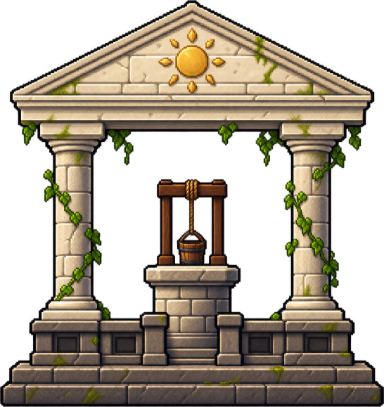
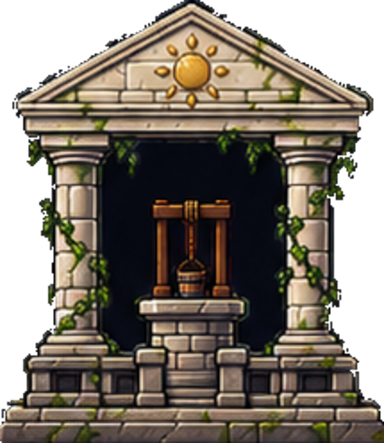
Il Santuario ha cinque disegni, uno per brace, e la lanterna e una lanterna
Avevo integrato il file sbagliato. In `sprite-new/Edifici/Santuario.png`
c'e un tempio con un POZZO e un secchio, e le nicchie vuote; il disegno
vero e `Santuario Set.png`, che ha la lanterna, le quattro braci e uno
stato per ognuna. E la differenza non e estetica: il gioco si chiama
«La Lanterna del Solstizio», e nel santuario ci stava un pozzo.

Adesso sono cinque file — `santuario.png` piu `santuario_1..4` — e li
sceglie il meccanismo delle varianti nato ieri per la casa ampliata.
Con un'aggiunta che serviva: la variante EREDITA dalla base quello che
non ridichiara, se no i quattro punti delle nicchie starebbero scritti
cinque volte e divergerebbero al primo ritocco. Chi ha davvero un
impaginato suo lo dichiara e vince, come fa `casa_1` con le sue cinque
finestre.

E per il Santuario il «livello» non e `e.liv` ma `G.braci`, cioe a che
punto sta l'atto secondo. Quella regola stava scritta in tre posti — due
in render.js e uno in game.js — ed e diventata `G.livelloEdificio`.

Le braci qui sono DISEGNATE, quindi il gioco non dipinge piu la fiamma:
mette solo l'alone, che e quello che un file non puo avere — serve a
bucare il velo del buio e a tingere la pozza di verde, giallo, arancio e
azzurro. I quattro colori restano quelli della facciata in codice, o
accendere una brace cambierebbe tinta a seconda di quale disegno e
arrivato.

TRE COSE MISURATE PER STRADA.

Il foglio ha un fondo blu scuro OPACO, non trasparente. Toglierlo con
[…]

diff --git a/js/render.js b/js/render.js
@@ -1400,12 +1400,12 @@ function stratoErba(m, x0,y0,x1,y1, ox,oy, stag, t, G){
 function ombraEdificio(e, ox, oy, G, stag, sole){
   if(sole.a < 0.03) return;
   const opt = { lit: G.ora>1020 || G.ora<420, season:stag, liv:e.liv||0 };
-  if(e.kind==='santuario') opt.liv = G.braci;
+  if(e.kind==='santuario') opt.liv = G.livelloEdificio(e);
   /* Dallo stesso disegno che si vede, come per gli arredi: la sagoma
      disegnata a mano non è quella in codice — casa tua ha il comignolo
      più a destra e il tetto più basso — e un'ombra presa dall'altra
      sarebbe l'ombra di un'altra casa. */
-  const img = ART.edificio(e.kind, e.liv) || ART.building(e.kind, opt);
+  const img = ART.edificio(e.kind, opt.liv) || ART.building(e.kind, opt);
   const w = e.w*T, scr = w/img.width;
   FX.ombraSprite(sx, img, (e.x*T+ox)+w/2, ((e.y+e.h)*T+oy), sole, w, img.height*scr, 0);
 }
@@ -1535,27 +1535,18 @@ function luceEdificio(E, px, py, w, h, acceso, G){
     alone(px + (f[0]+f[2]/2)*w, py + (f[1]+f[3]/2)*h, Math.max(f[2]*w, f[3]*h)*1.6,
           'rgba(255,146,60', acceso ? 1 : 0.5);
   }
-  /* Le quattro braci e la lanterna del Santuario sono STATO DI GIOCO,
-     non decorazione: dicono a che punto sta l'atto secondo. Nel disegno
-     a mano le quattro nicchie ci sono — sono i quattro incassi scuri
-     nel basamento, due per lato del pozzo — e sono vuote: la brace è
-     luce, e la luce la mette il gioco, come per le finestre. I quattro
-     colori sono gli stessi della facciata in codice, o accendere una
-     brace cambierebbe tinta a seconda di quale dei due disegni è
-     arrivato. */
+  /* Le quattro braci e la lanterna del Santuario sono STATO DI GIOCO:
+     dicono a che punto sta l'atto secondo. Il disegno le ha — c'è un
+     file per ogni brace accesa — quindi qui non si dipinge la fiamma,
+     si aggiunge solo l'ALONE, che è quello che un file non può avere:
+     serve a bucare il velo del buio e a tingere di verde, giallo,
+     arancio e azzurro la pozza di luce. I quattro colori restano quelli
+     della facciata in codice, o accendere una brace cambierebbe tinta a
+     seconda di quale dei due disegni è arrivato. */
   if(E.nicchie){
     const bc = ['rgba(143,212,106', 'rgba(247,199,68', 'rgba(224,138,60', 'rgba(159,216,238'];
-    for(let i=0; i<E.nicchie.length && i<(G.braci||0); i++){
-      const nx = px + E.nicchie[i][0]*w, ny = py + E.nicchie[i][1]*h;
-      /* La brace vera, piena: solo l'alone la faceva una macchia di
-         colore sul fondo scuro della nicchia, e da lontano non si
-         capiva se fosse accesa o se fosse un riflesso. */
-      sx.globalCompositeOperation = 'source-over';
-      sx.fillStyle = bc[i]+',0.9)';
-      sx.beginPath(); sx.ellipse(nx, ny, w*0.022, w*0.016, 0, 0, 6.3); sx.fill();
-      sx.globalCompositeOperation = 'lighter';
-      alone(nx, ny, w*0.085, bc[i], 1.5);
-    }
+    for(let i=0; i<E.nicchie.length && i<(G.braci||0); i++)
+      alone(px + E.nicchie[i][0]*w, py + E.nicchie[i][1]*h, w*0.085, bc[i], 1.2);
   }
   if(E.lanterna && (G.braci||0) > 0){
     const l = E.lanterna, pieno = G.braci >= 4;
@@ -1567,8 +1558,8 @@ function luceEdificio(E, px, py, w, h, acceso, G){
 
 function disegnaEdificio(e, ox, oy, G, stag){
   const opt = { lit: G.ora>1020 || G.ora<420, season:stag, liv:e.liv||0 };
-  if(e.kind==='santuario') opt.liv = G.braci;
-  const aMano = ART.edificio(e.kind, e.liv);
+  if(e.kind==='santuario') opt.liv = G.livelloEdificio(e);
+  const aMano = ART.edificio(e.kind, opt.liv);
   const img = aMano || ART.building(e.kind, opt);
   const w = e.w*T;
   const dw = img.width, dh = img.height;
@@ -1577,7 +1568,7 @@ function disegnaEdificio(e, ox, oy, G, stag){
   const py = ((e.y+e.h)*T + oy - dh*sc)|0;
   sx.drawImage(img, px, py, dw*sc, dh*sc);
 
-  const E = aMano ? ART.datoEdificio(e.kind, e.liv) : null;
+  const E = aMano ? ART.datoEdificio(e.kind, opt.liv) : null;
   if(E) luceEdificio(E, px, py, dw*sc, dh*sc, opt.lit, G);
 
   if((e.kind==='casa'||e.kind==='locanda'||e.kind==='fucina'||e.kind==='capanna') && opt.lit){

diff --git a/js/data.js b/js/data.js
@@ -2042,9 +2042,22 @@ D.EDIFICI = {
                finestre:[[0.482,0.283,0.080,0.089],[0.188,0.323,0.054,0.063],
                          [0.158,0.638,0.083,0.102],[0.621,0.688,0.056,0.073],
                          [0.799,0.690,0.100,0.108]] },
-  santuario: { file:'santuario.png', w:384, h:407,
-               lanterna:[0.499,0.560],
-               nicchie:[[0.169,0.835],[0.319,0.835],[0.664,0.835],[0.824,0.835]] }
+  /* IL SANTUARIO HA CINQUE DISEGNI, uno per brace accesa, e non è una
+     variante come le altre: `e.liv` di un edificio è il suo livello, ma
+     qui il livello è `G.braci`, cioè a che punto sta l'atto secondo.
+     Le braci e la lanterna qui sono DISEGNATE, quindi il gioco non le
+     dipinge più — mette solo la luce, che è quello che il disegno non
+     può avere: il velo del buio si buca da lì.
+     I punti stanno solo sulla voce base: le varianti li ereditano
+     (`ART.datoEdificio`), o gli stessi quattro numeri starebbero
+     scritti cinque volte e divergerebbero al primo ritocco. */
+  santuario:   { file:'santuario.png',   w:384, h:443,
+                 lanterna:[0.500,0.583],
+                 nicchie:[[0.191,0.872],[0.364,0.872],[0.496,0.872],[0.648,0.872]] },
+  santuario_1: { file:'santuario_1.png', w:384, h:443 },
+  santuario_2: { file:'santuario_2.png', w:384, h:443 },
+  santuario_3: { file:'santuario_3.png', w:384, h:443 },
+  santuario_4: { file:'santuario_4.png', w:384, h:443 }
 };
 
 /* GLI ABITANTI DISEGNATI A MANO, uno per foglio.

diff --git a/js/game.js b/js/game.js
@@ -3124,6 +3124,14 @@ Object.assign(G, PAESE);
 /* ===================================================================
    LUCI
    =================================================================== */
+/* Che disegno vuole questo edificio. Per quasi tutti è il loro livello;
+   per il Santuario è `G.braci`, cioè a che punto sta l'atto secondo. La
+   regola stava scritta due volte in render.js e una qui, e tre copie di
+   una regola sono tre occasioni di scordarsene una. */
+G.livelloEdificio = function(e){
+  return e.kind==='santuario' ? (G.braci||0) : (e.liv||0);
+};
+
 G.luci = function(){
   const out=[];
   const m=G.mappa();
@@ -3174,7 +3182,8 @@ G.luci = function(){
        la sera. Prima decideva `Math.random()`, che qui gira a ogni
        fotogramma: sessanta monetine al secondo, cioè uno sfarfallio. */
     if(e.azione==='chiuso' && ART.hsh(e.x, e.y + (G.giorno||0), 771) > 0.5) continue;
-    const E = ART.edificio(e.kind, e.liv) ? ART.datoEdificio(e.kind, e.liv) : null;
+    const liv = G.livelloEdificio(e);
+    const E = ART.edificio(e.kind, liv) ? ART.datoEdificio(e.kind, liv) : null;
     if(E && (E.finestre || E.fuoco || E.nicchie || E.lanterna)){
       const bx = e.x*T, by = (e.y+e.h)*T - E.h;
       const luce = (f, r, i) => out.push({ x: bx + (f[0]+f[2]/2)*E.w, y: by + (f[1]+f[3]/2)*E.h,

diff --git a/js/art.js b/js/art.js
@@ -2035,10 +2035,20 @@ A.edificio = function(kind, liv){
    casa base, e prenderlo dalla voce sbagliata mette una macchia calda
    sul muro. Torna null se non c'è disegno a mano, che è il segnale di
    lasciar perdere e usare la facciata in codice. */
+const datiUniti = {};
 A.datoEdificio = function(kind, liv){
   if(!window.DATA || !DATA.EDIFICI) return null;
-  if(liv && DATA.EDIFICI[kind + '_' + liv] && window.IMG &&
-     IMG.prendi(CHIAVE_EDIFICIO + kind + '_' + liv)) return DATA.EDIFICI[kind + '_' + liv];
+  const k = kind + '_' + liv;
+  if(liv && DATA.EDIFICI[k] && window.IMG && IMG.prendi(CHIAVE_EDIFICIO + k)){
+    /* La variante EREDITA dalla base quello che non ridichiara: le
+       quattro nicchie del Santuario stanno dove stanno a zero braci come
+       a quattro, e scriverle cinque volte vuol dire vederle divergere al
+       primo ritocco. Chi ha davvero un impaginato suo lo dichiara e
+       vince — `casa_1` ha cinque finestre invece di due. L'unione si fa
+       una volta sola: questa funzione la chiama il fotogramma. */
+    if(!datiUniti[k]) datiUniti[k] = Object.assign({}, DATA.EDIFICI[kind]||{}, DATA.EDIFICI[k]);
+    return datiUniti[k];
+  }
   return DATA.EDIFICI[kind] || null;
 };
 

diff --git a/js/world.js b/js/world.js
@@ -269,7 +269,7 @@ W.spargiSu = function(m, terreno, quanti, fabbrica, seed){
    nata. `W.verificaProporzioni` adesso li misura tutti e due. */
 const PROPORZIONI = {
   casa:0.900, cottage:0.944, capanna:0.929, bottega:0.888,
-  fucina:0.909, locanda:0.873, santuario:1.060,
+  fucina:0.909, locanda:0.873, santuario:1.154,
   serra:0.857, pollaio:0.900
 };
 

diff --git a/img/LEGGIMI.md b/img/LEGGIMI.md
@@ -122,10 +122,14 @@ la mette il gioco, in due posti che vanno insieme:
   sono quelli del **vetro**, non della finestra: prendendo anche la cornice si
   scalda il legno e sembra una finestra incendiata.
 
-Stessa strada per la forgia della fucina (che arde anche di giorno) e per le
-**quattro nicchie e la lanterna del Santuario**, che sono stato di gioco e non
-decorazione: le nicchie nel disegno ci sono, quattro incassi scuri nel
-basamento, e sono vuote — la brace è luce.
+Stessa strada per la forgia della fucina, che arde anche di giorno.
+
+**Il Santuario è il caso a parte**, e ha cinque disegni: uno per brace accesa.
+Lì le braci e la lanterna sono DISEGNATE, quindi il gioco non dipinge la
+fiamma — mette solo l'alone, che serve a bucare il velo del buio e a tingere
+la pozza di verde, giallo, arancio e azzurro. I quattro colori restano quelli
+della facciata in codice: accendere una brace non può cambiare tinta a seconda
+di quale disegno è arrivato.
 
 **Cosa manca ancora**, e va disegnato:
 
@@ -133,9 +137,16 @@ basamento, e sono vuote — la brace è luce.
 altre, non annidate: `IMG.precarica` scorre l'oggetto per sapere cosa
 scaricare, e una voce annidata resterebbe a terra senza dire niente.
 `ART.edificio(tipo, liv)` prova `tipo_liv` e ripiega su `tipo`, così un
-livello senza disegno suo tiene quello di prima. Per adesso ce n'è una:
-`casa_1`, la casa ampliata di `casa2` — più grande, con la falda in più e
-cinque finestre invece di due.
+livello senza disegno suo tiene quello di prima. E la variante **eredita**
+dalla base quello che non ridichiara: le quattro nicchie del Santuario stanno
+dove stanno a zero braci come a quattro, e scriverle cinque volte vuol dire
+vederle divergere al primo ritocco.
+
+Ce ne sono due famiglie: `casa_1`, la casa ampliata di `casa2` — più grande,
+con la falda in più e cinque finestre invece di due — e `santuario_1..4`, una
+per brace accesa. Per il Santuario il «livello» non è `e.liv` ma `G.braci`:
+lo decide `G.livelloEdificio`, che è l'unico posto dove quella regola sta
+scritta.
 
 **Cosa manca ancora**, e va disegnato: le **varianti innevate**. Il gioco non
 le ha mai avute — nessuna delle facciate in codice guarda `opt.season` — e i
